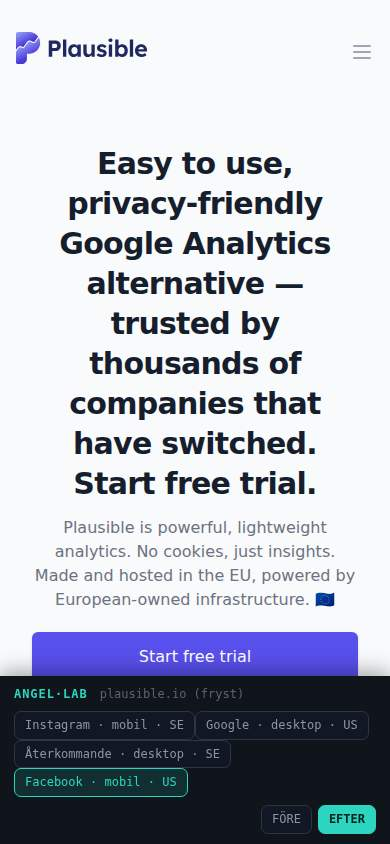
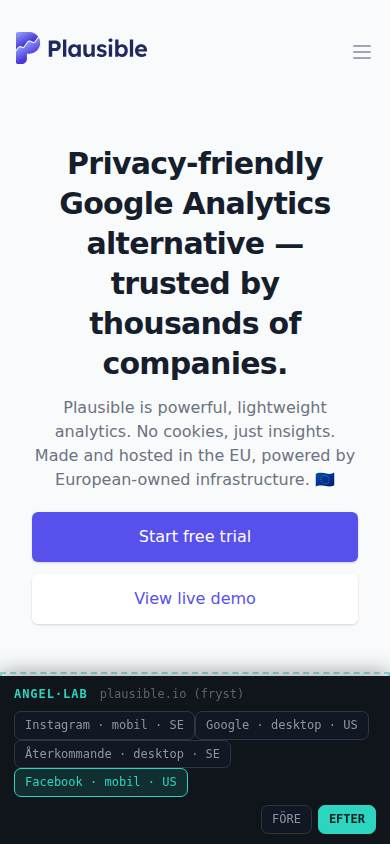
Plausible Lab: facebook hero v2 — tighter grounded copy after sandbox review
The sandbox did its job: v1's hero passed every gate (grounded, no collision)
but read as 7 lines on a 390px viewport with the CTA pushed below the fold —
technically approved, aesthetically wrong. v2 keeps the same grounded trust
claim in ~6 lines with the Start-free-trial CTA back inside the first viewport.

- Sandbox variant text updated (claims guard re-validated: PASS; collision gate
  re-measured: +0px introduced).
- Evidence screenshot re-rendered; the variant row's ops updated in prod, with
  the v1 copy preserved in evidence.copyRevisions incl. WHY it was rejected —
  the audit trail for "owner's eyes judge snyggt, gates judge trasigt".

tsc clean; no test-relevant change.

Claude-Session: https://claude.ai/code/session_011wAfH655ySoUr4jWZYFepE

Changed region(s): [[0.0615, 0.154, 0.9231, 0.8009], [0.9846, 0.7701, 1.0, 0.8009]]

diff --git a/public/lab/plausible/index.html b/public/lab/plausible/index.html
@@ -305,7 +305,7 @@ body{padding-bottom:64px !important}
 </div>
 <script>
 (function(){
-  var VARIANTS = [{"key":"instagram·mobile·se","label":"Instagram · mobil · SE","headline":"Varm men försiktig — socialt bevis direkt under hjältens CTA.","gates":"krock +0px · overflow +0px · hjälten först · reversibel","moves":["People ❤ Plausible","People ❤ Plausible"],"texts":[],"viewport":"mobil"},{"key":"google·desktop·us","label":"Google · desktop · US","headline":"Jämför aktivt — 'ditch Google Analytics' direkt under hjälten.","gates":"krock +48px (ok) · overflow +0px · hjälten först · reversibel","moves":["It's time to ditch Google Analytics","It's time to ditch Google Analytics"],"texts":[],"viewport":"desktop"},{"key":"okänd·desktop·se·återkommande","label":"Återkommande · desktop · SE","headline":"Kom tillbaka för priset — pris direkt under hjälten, stramare rubrik.","gates":"krock +48px (ok) · overflow +0px · hjälten först · reversibel","moves":["Traffic based plans","Traffic based plans","Traffic based plans"],"texts":[{"find":"h1","set":"The easy, privacy-friendly Google Analytics alternative"}],"viewport":"desktop"},{"key":"facebook·mobile·us","label":"Facebook · mobil · US","headline":"Kall trafik — förtroende i hjälten, bevis ovanför folden, kortare feature-text.","gates":"krock +0px (försök 1: +320px stoppad) · overflow +0px · reversibel","moves":["People ❤ Plausible","People ❤ Plausible"],"texts":[{"find":"h1","set":"Easy to use, privacy-friendly Google Analytics alternative — trusted by thousands of companies that have switched. Start free trial."},{"find":"h2:Why use Plausible","set":"Why Plausible? Easy to use, privacy-friendly, and a full alternative to Google Analytics."}],"viewport":"mobil"}];
+  var VARIANTS = [{"key":"instagram·mobile·se","label":"Instagram · mobil · SE","headline":"Varm men försiktig — socialt bevis direkt under hjältens CTA.","gates":"krock +0px · overflow +0px · hjälten först · reversibel","moves":["People ❤ Plausible","People ❤ Plausible"],"texts":[],"viewport":"mobil"},{"key":"google·desktop·us","label":"Google · desktop · US","headline":"Jämför aktivt — 'ditch Google Analytics' direkt under hjälten.","gates":"krock +48px (ok) · overflow +0px · hjälten först · reversibel","moves":["It's time to ditch Google Analytics","It's time to ditch Google Analytics"],"texts":[],"viewport":"desktop"},{"key":"okänd·desktop·se·återkommande","label":"Återkommande · desktop · SE","headline":"Kom tillbaka för priset — pris direkt under hjälten, stramare rubrik.","gates":"krock +48px (ok) · overflow +0px · hjälten först · reversibel","moves":["Traffic based plans","Traffic based plans","Traffic based plans"],"texts":[{"find":"h1","set":"The easy, privacy-friendly Google Analytics alternative"}],"viewport":"desktop"},{"key":"facebook·mobile·us","label":"Facebook · mobil · US","headline":"Kall trafik — förtroende i hjälten, bevis ovanför folden, kortare feature-text.","gates":"krock +0px (försök 1: +320px stoppad) · overflow +0px · reversibel","moves":["People ❤ Plausible","People ❤ Plausible"],"texts":[{"find":"h1","set":"Privacy-friendly Google Analytics alternative — trusted by thousands of companies."},{"find":"h2:Why use Plausible","set":"Why Plausible? Easy to use, privacy-friendly, and a full alternative to Google Analytics."}],"viewport":"mobil"}];
   var mainEl = document.querySelector("main") || document.body;
   var original = Array.prototype.slice.call(mainEl.children);
   var textSnapshots = [];

diff --git a/scripts/lab/build-lab-sandbox.ts b/scripts/lab/build-lab-sandbox.ts
@@ -60,8 +60,11 @@ const VARIANTS = [
     moves: ["People ❤ Plausible", "People ❤ Plausible"],
     texts: [
       {
+        // v2 — ägaren dömde v1 ("Easy to use, … that have switched. Start free
+        // trial.") som för lång på mobil (7 rader). Stramare, samma grundade
+        // claim, ~4 rader på 390px. Claims-grind: PASS.
         find: "h1",
-        set: "Easy to use, privacy-friendly Google Analytics alternative — trusted by thousands of companies that have switched. Start free trial.",
+        set: "Privacy-friendly Google Analytics alternative — trusted by thousands of companies.",
       },
       {
         find: "h2:Why use Plausible",
